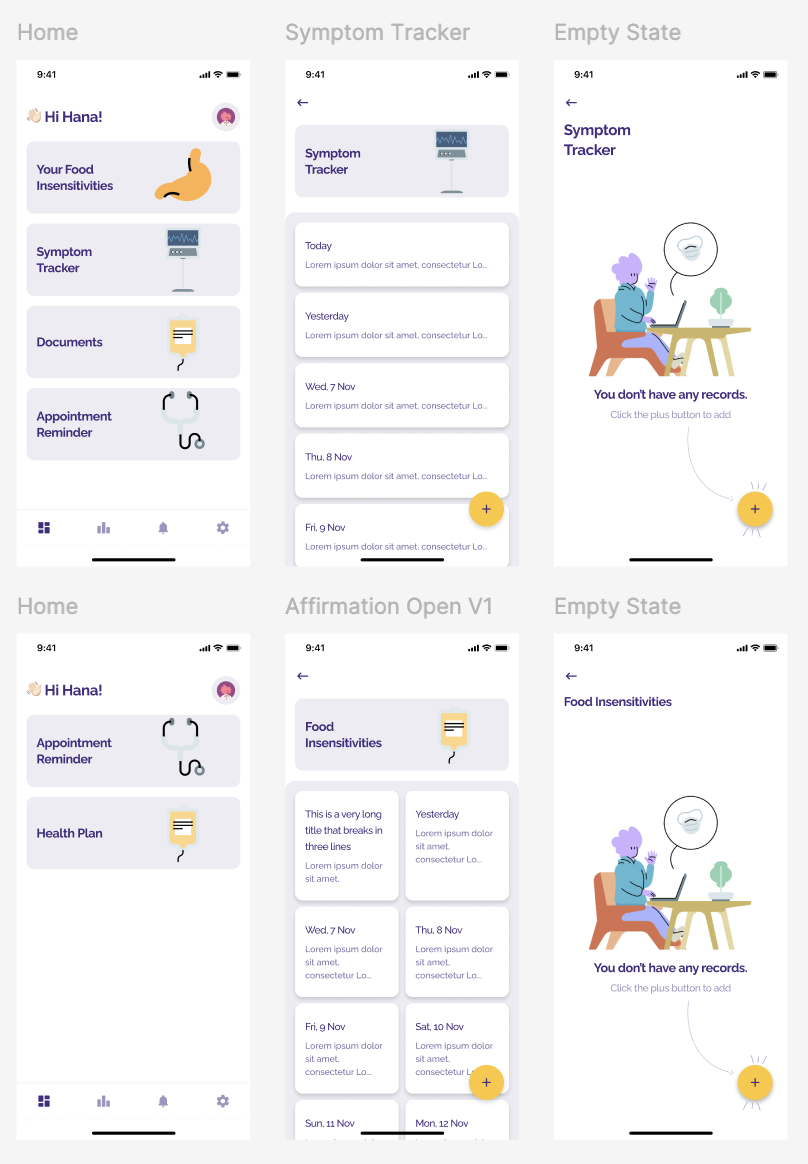
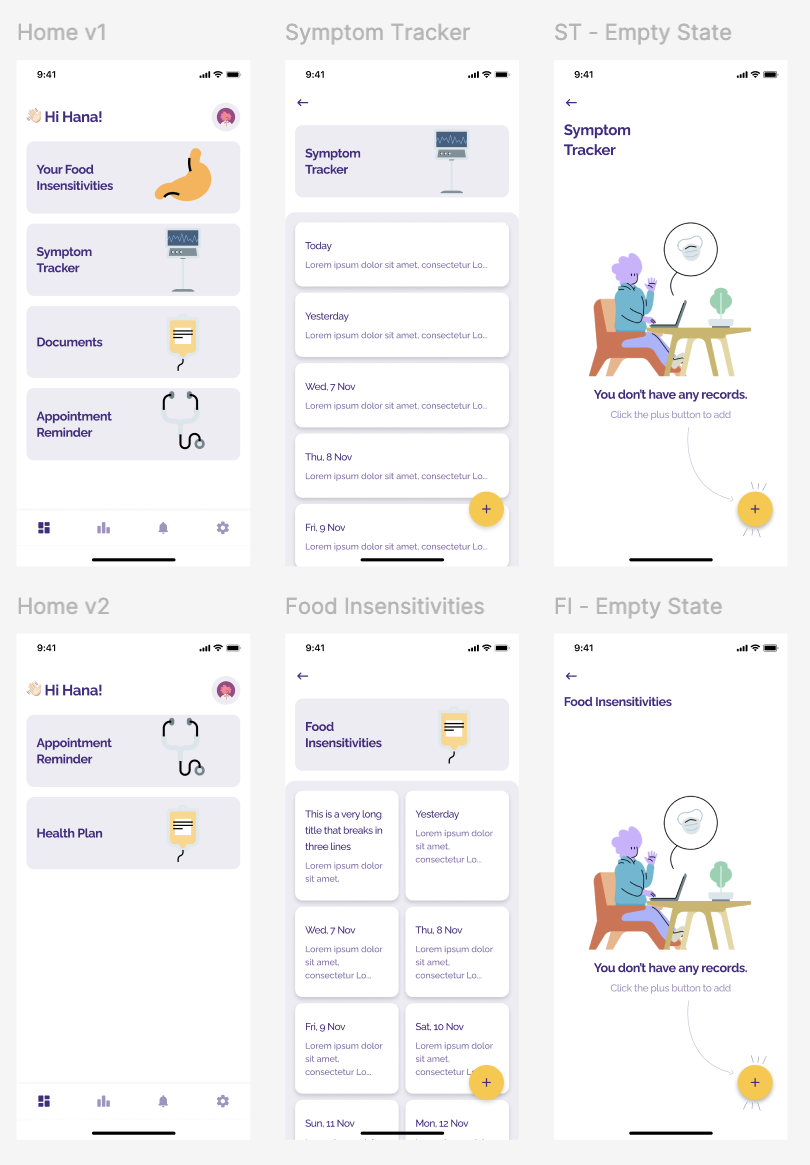
edit features and mockup

diff --git a/README.md b/README.md
@@ -26,11 +26,10 @@ BerriWell aims to change this by centralizing data, lab results, and naturopathi
 
 ### Features
 
-- food sensitivity results
-- symptom journal
-- appointment reminder
-- health plan (maybe)
-
+- Food Sensitivity Results: Easily add, edit, and view your food sensitivities at your convenience.
+- Symptom Journal: Log any pain or unfavorable symptoms you experience in a journal to share with your doctor during appointments.
+- Appointment Reminder: Keep track of your upcoming appointments to stay organized.
+- Health Plan: Add, edit, and view a personalized health plan tailored to your needs.
 
 ## Implementation
 
